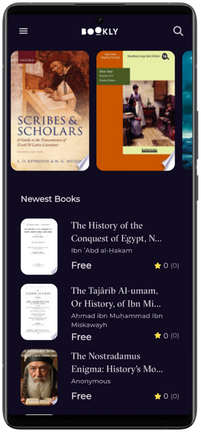
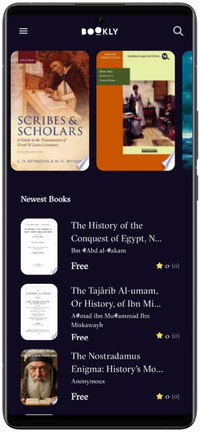
Update text styles to use kGtSectraFine font and replace screenshots

diff --git a/lib/core/utils/styles.dart b/lib/core/utils/styles.dart
@@ -5,10 +5,12 @@ abstract class Styles {
   static const textStyle18 = TextStyle(
     fontSize: 18,
     fontWeight: FontWeight.w600,
+    fontFamily: kGtSectraFine,
   );
   static const textStyle20 = TextStyle(
     fontSize: 20,
     fontWeight: FontWeight.normal,
+    fontFamily: kGtSectraFine,
   );
   static const textStyle30 = TextStyle(
     fontSize: 30,
@@ -19,12 +21,12 @@ abstract class Styles {
   static const textStyle14 = TextStyle(
     fontSize: 14,
     fontWeight: FontWeight.normal,
+    fontFamily: kGtSectraFine,
   );
 
   static const textStyle16 = TextStyle(
     fontSize: 16,
     fontWeight: FontWeight.w500,
+    fontFamily: kGtSectraFine,
   );
 }
-
-const TextStyle textStyle = TextStyle();

diff --git a/lib/features/home/presentation/widgets/newest_books_list_view_item.dart b/lib/features/home/presentation/widgets/newest_books_list_view_item.dart
@@ -62,6 +62,7 @@ class NewestBooksListViewItem extends StatelessWidget {
                           'Free',
                           style: Styles.textStyle20.copyWith(
                             fontWeight: FontWeight.bold,
+                            fontFamily: kGtSectraFine,
                           ),
                         ),
                         const Spacer(),
